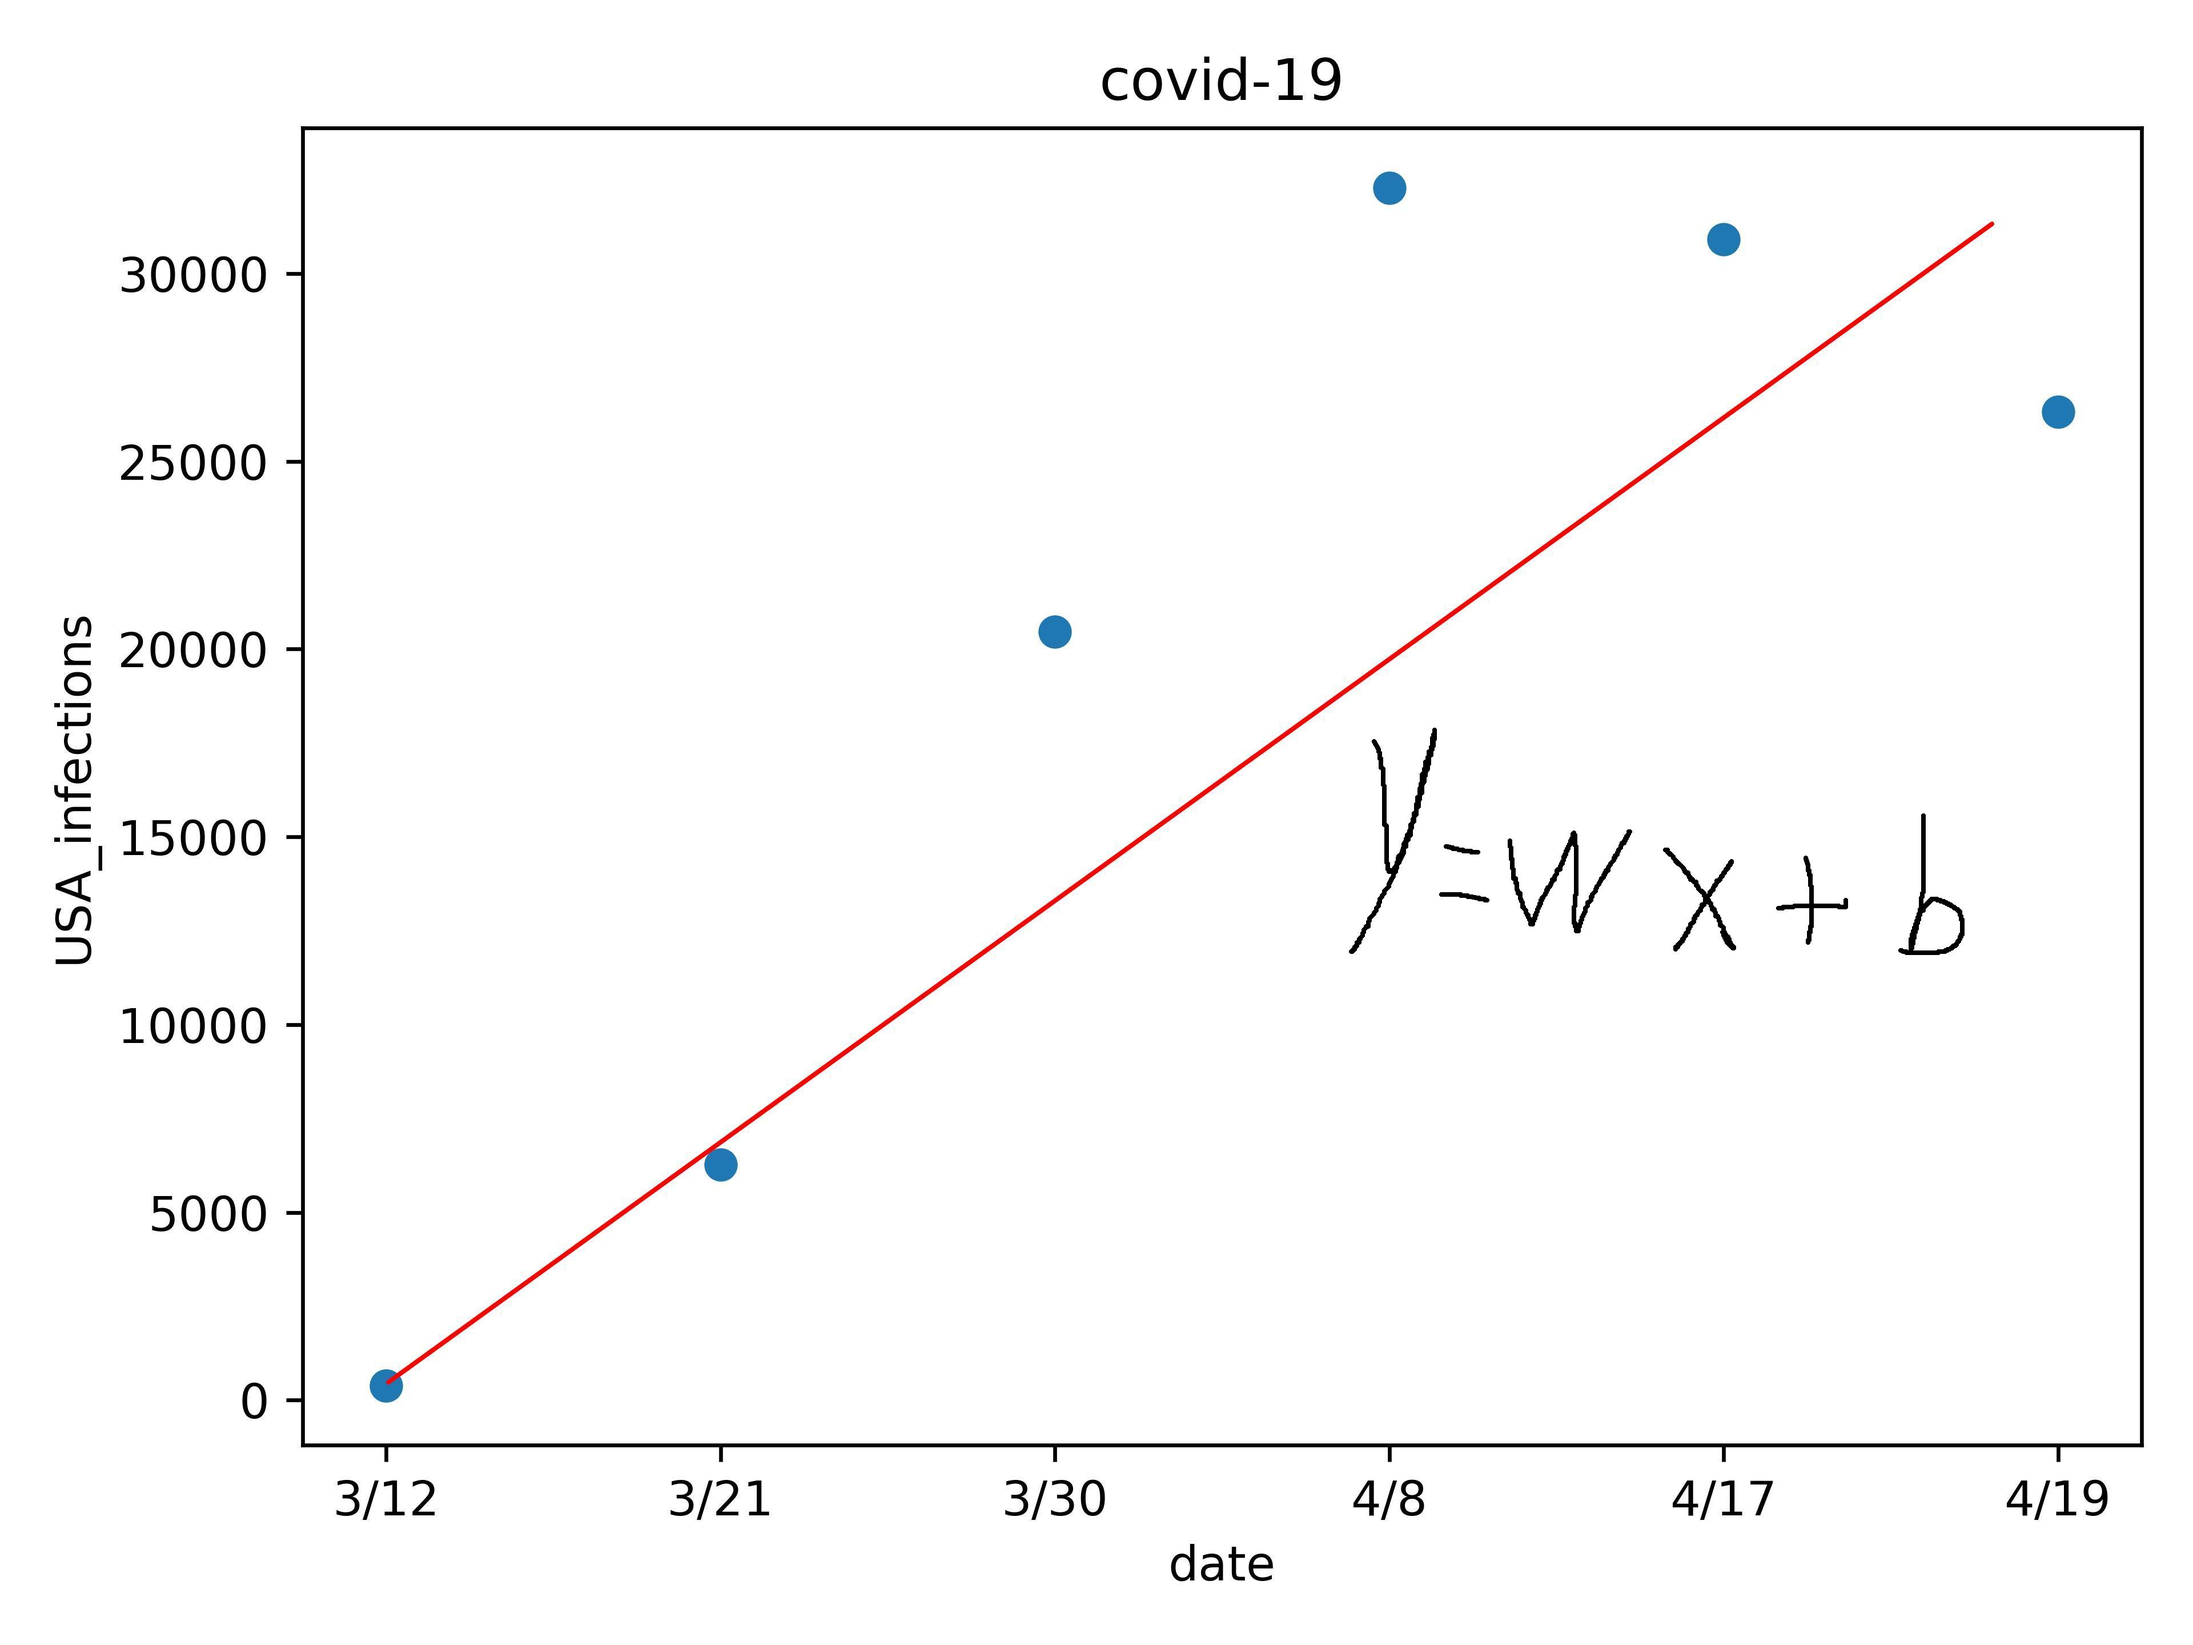
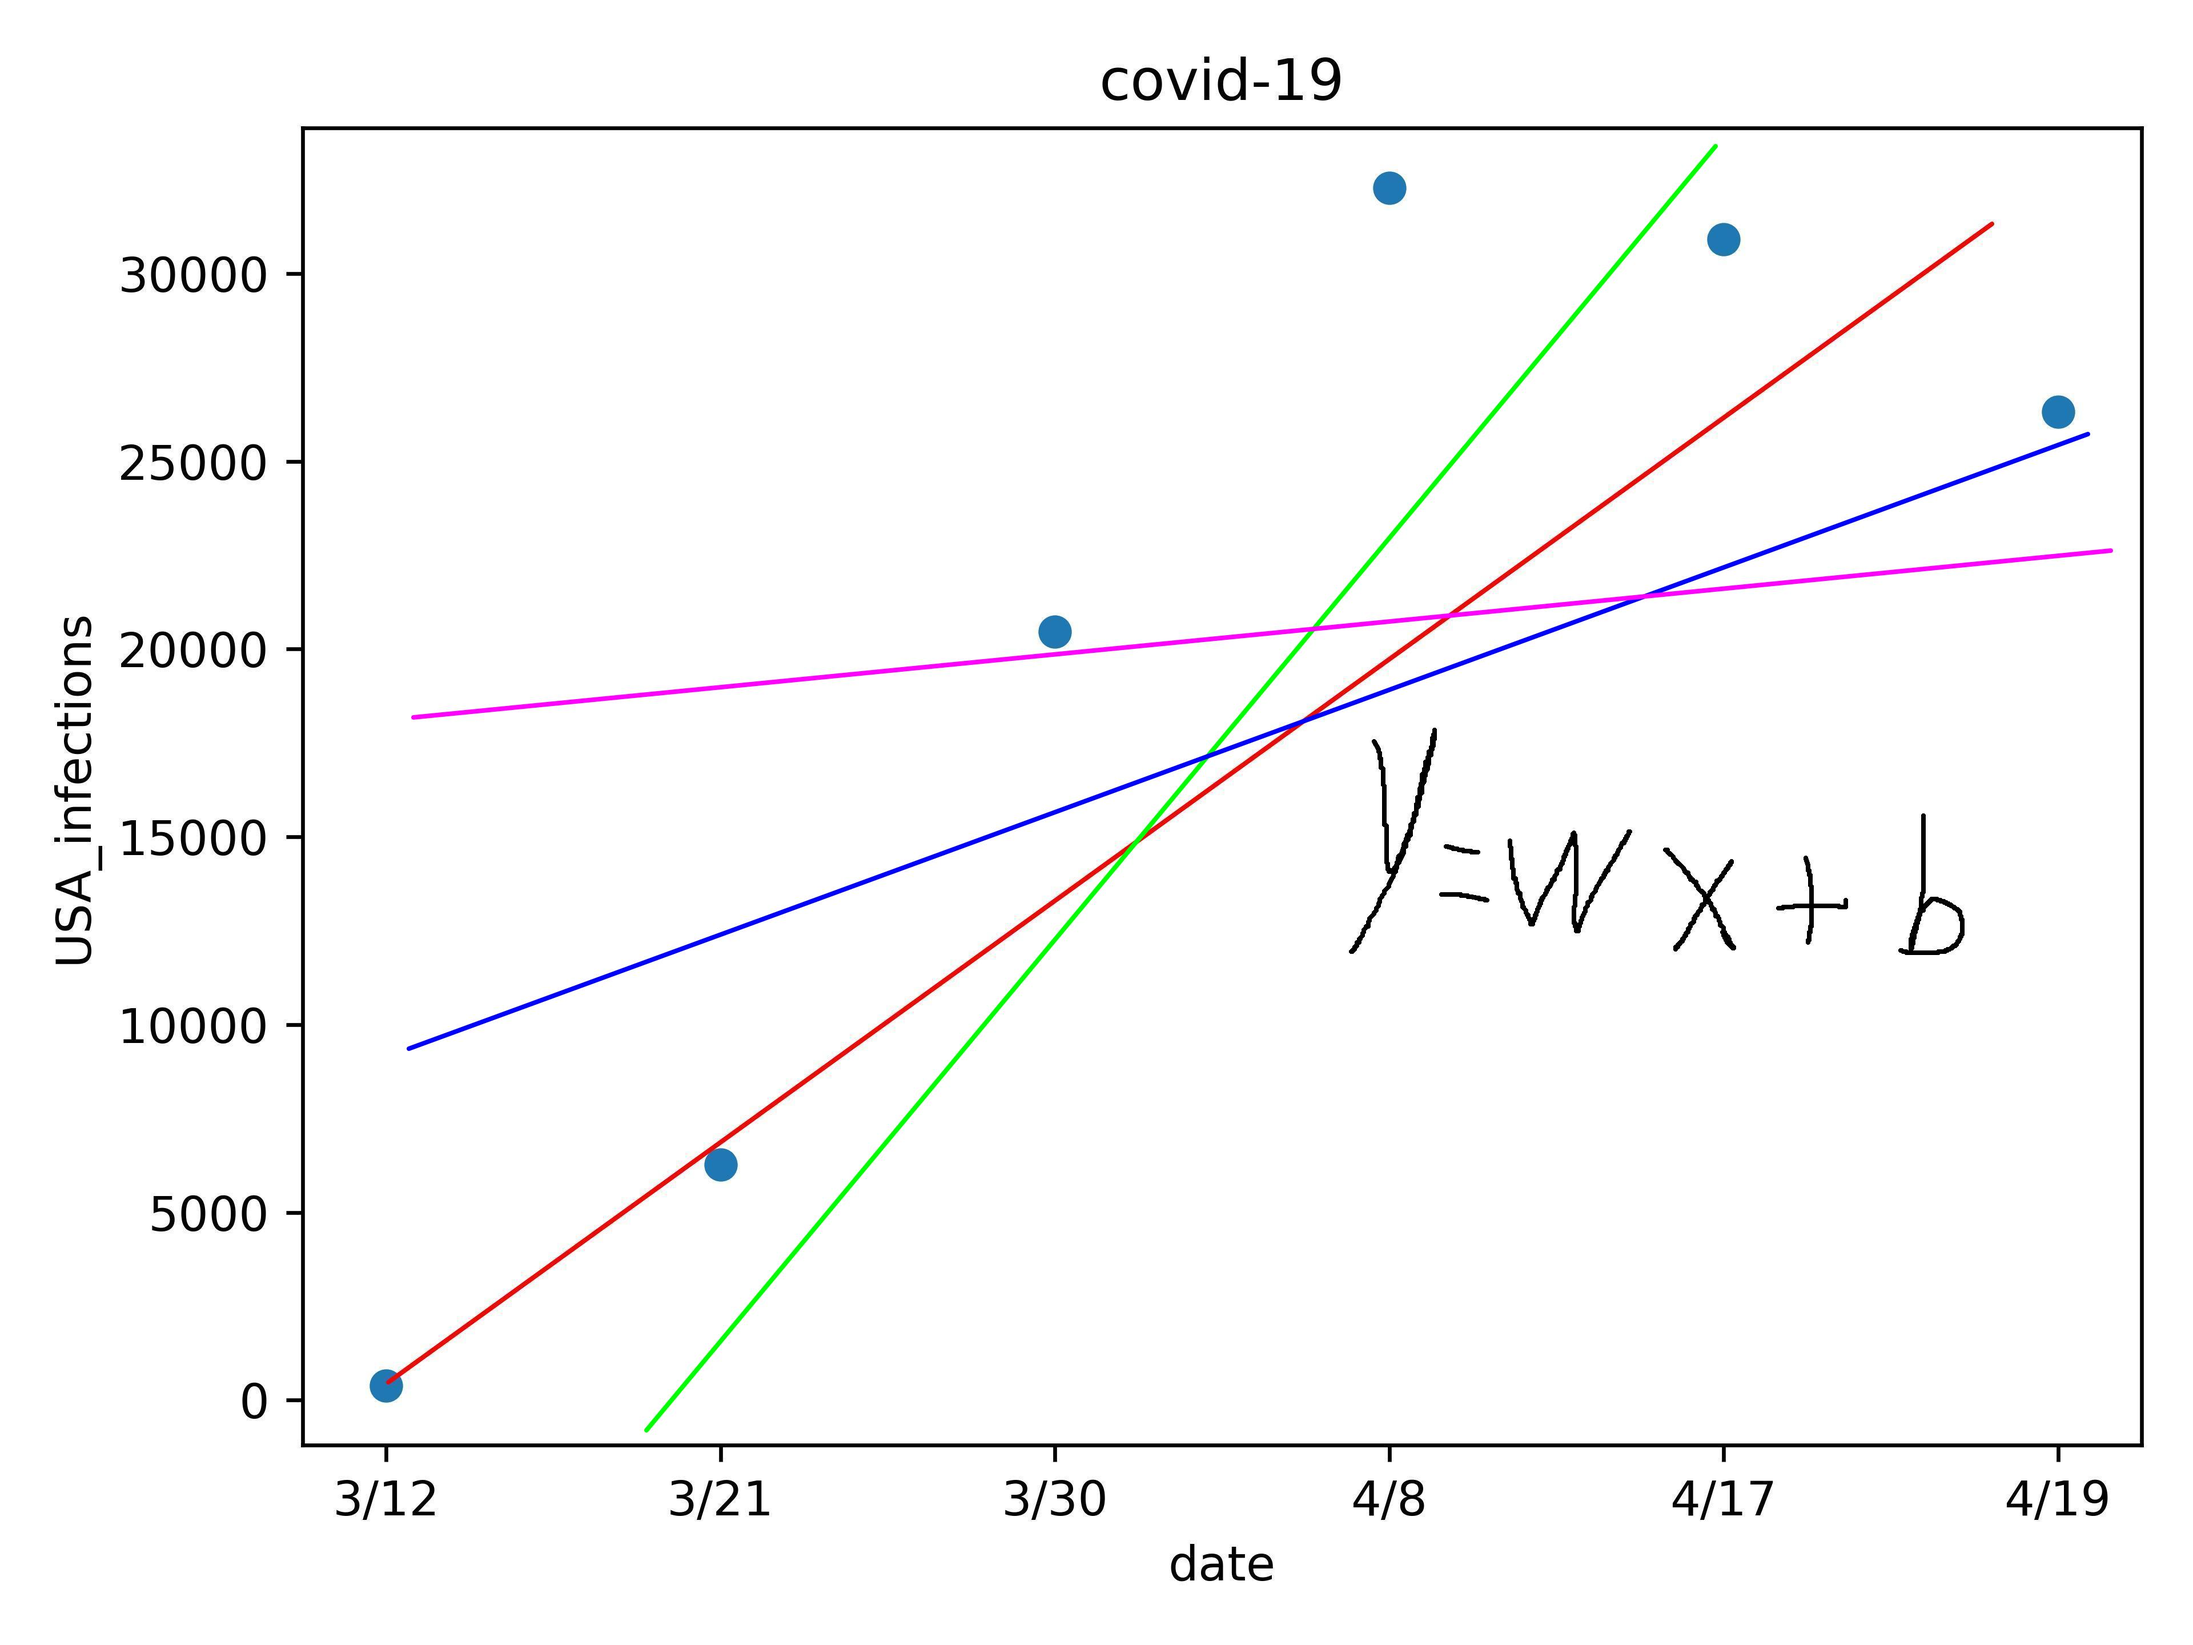
总结机器学习

diff --git a/_posts/blog2020/2020-04-21-机器学习的思考.md b/_posts/blog2020/2020-04-21-机器学习的思考.md
@@ -27,19 +27,28 @@ article_header:
 **有人说可以使用一元函数:**
 - ![](https://socofels.github.io/assets/images/generate_img/covid-19-1.jpg){:width="400px"}
 
+
+那么现在的问题是，他们的拟合结果看起来好像都还不错，我们该相信谁的预测呢？我能不能再写一个函数，
+来判断他们三个人的预测，哪个最为准确？于是就有了loss函数，就是我们前面所说的凸函数。
+- 凸函数的作用就是告诉你这几个算法，哪个预测的误差更大
+
+
+
 **也有人说可以使用二元函数：**
 - ![](https://socofels.github.io/assets/images/generate_img/covid-19-2.jpg){:width="400px"}
 
 **还有人说用更高次函数，世界上没有他拟合不了的数据**
 - ![](https://socofels.github.io/assets/images/generate_img/covid-19-3.jpg){:width="400px"}
 
->题外话：这里你可能会问，为什么他们都用这样的函数，而不采用sinx，或者其他函数呢？
+>题外话：这里你可能会问，为什么他们都用这样的幂函数函数，而不采用sinx，或者其他函数呢？
 >这里不得不提到一位非常牛掰的人物，泰勒。
+>
 >![](https://socofels.github.io/assets/images/blogimg/Taylor.jpeg){:width="100px"}
->泰勒曾经说过任意函数都能展开为幂函数。例如：
+>泰勒曾经说过任意函数都能展开为幂函数。例如
+>
 >![](https://socofels.github.io/assets/images/blogimg/formula.png){:width="300px"}
-
-看起来好像他们结果都还不错，那么我们并不知道他们哪个结果好一点
+>
+>**所以理论上来说，我们可以使用幂函数表示任意形状的函数，这就是为什么用幂函数的原因。**
 ## 求凸函数的极值
 
 <!--more-->
